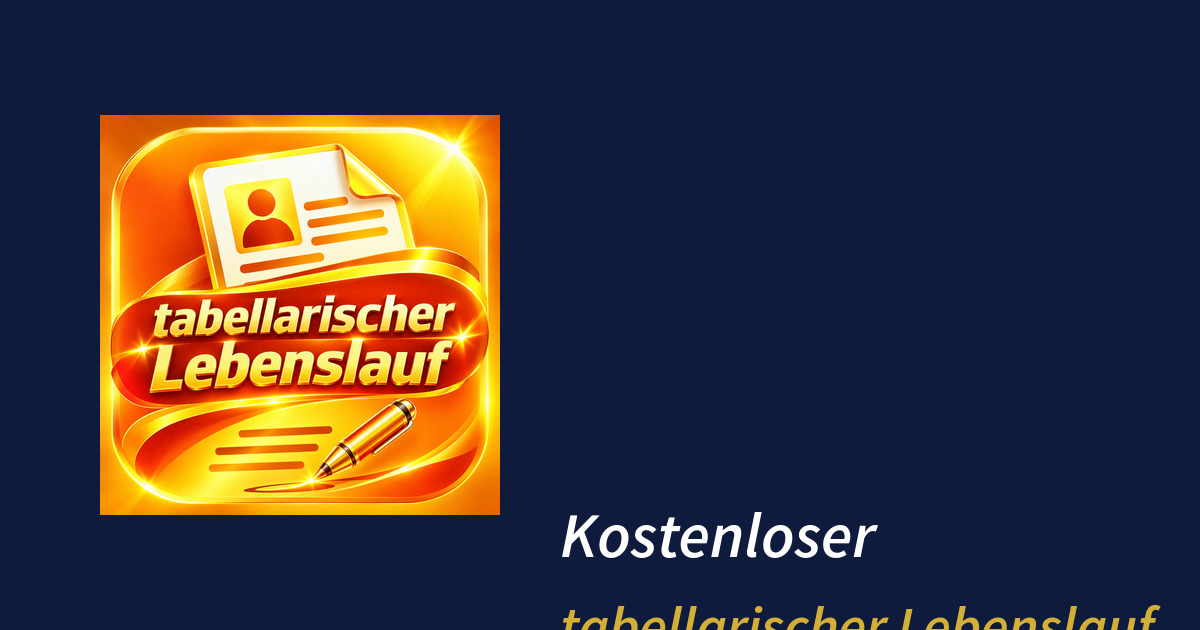
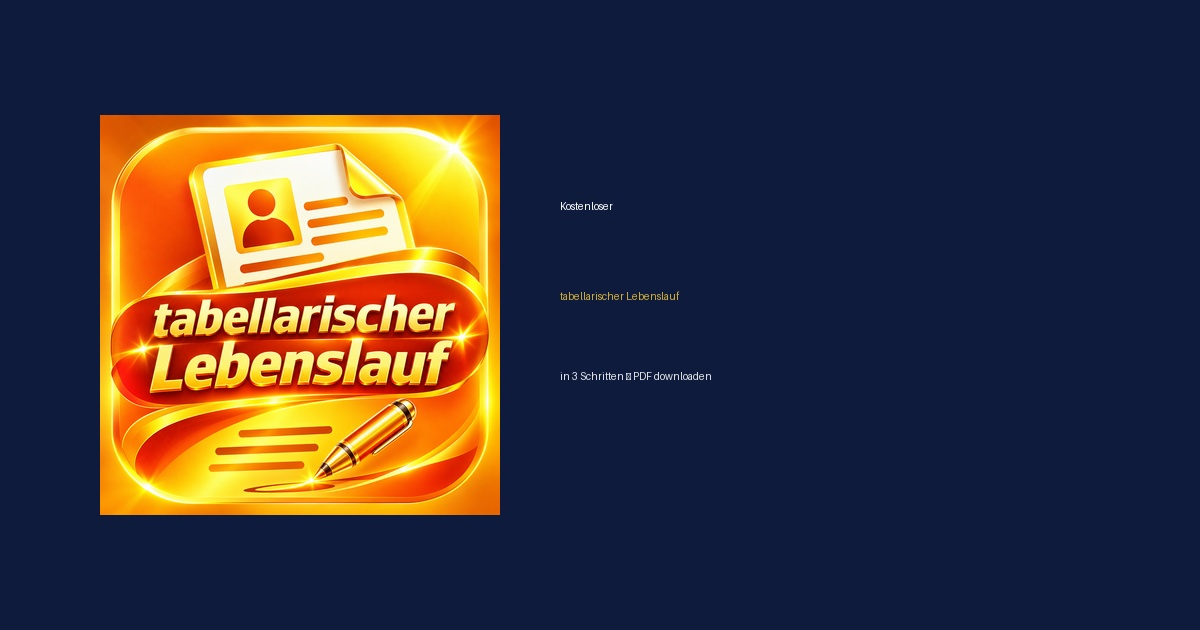
Fix BlogPage import

diff --git a/generate-og-image.js b/generate-og-image.js
@@ -1,0 +1,28 @@
+import sharp from 'sharp';
+
+const input = 'public/pwa-icon.png';
+const output = 'public/og-image.png';
+
+sharp(input)
+  .resize(400, 400) // تصغير الصورة الأصلية
+  .toBuffer()
+  .then(iconBuffer => {
+    return sharp({
+      create: {
+        width: 1200,
+        height: 630,
+        channels: 3,
+        background: '#0f1b3d' // خلفية كحلية
+      }
+    })
+    .composite([
+      {
+        input: iconBuffer,
+        gravity: 'center' // توسيط الصورة
+      }
+    ])
+    .png()
+    .toFile(output);
+  })
+  .then(() => console.log('OG Image created: ' + output))
+  .catch(err => console.error('Fehler:', err));

diff --git a/generate_og.py b/generate_og.py
@@ -1,0 +1,28 @@
+from PIL import Image, ImageDraw, ImageFont
+
+# تحميل الأيقونة الذهبية
+icon = Image.open('public/og-gold.png').convert('RGBA')
+icon = icon.resize((400, 400), Image.LANCZOS)
+
+# خلفية كحلية
+bg = Image.new('RGB', (1200, 630), '#0f1b3d')
+bg.paste(icon, (100, 115), icon)
+
+draw = ImageDraw.Draw(bg)
+
+# تحميل خطوط (إن لم تتوفر نستخدم الافتراضي)
+try:
+    font_big = ImageFont.truetype('DejaVuSans-Bold.ttf', 64)
+    font_medium = ImageFont.truetype('DejaVuSans-Bold.ttf', 56)
+    font_small = ImageFont.truetype('DejaVuSans.ttf', 36)
+except:
+    font_big = ImageFont.load_default()
+    font_medium = ImageFont.load_default()
+    font_small = ImageFont.load_default()
+
+draw.text((560, 200), 'Kostenloser', fill='white', font=font_big)
+draw.text((560, 290), 'tabellarischer Lebenslauf', fill='#d4af37', font=font_medium)
+draw.text((560, 370), 'in 3 Schritten – PDF downloaden', fill='#e5e7eb', font=font_small)
+
+bg.save('public/og-image.jpg', quality=95)
+print('OG image created with Pillow')
